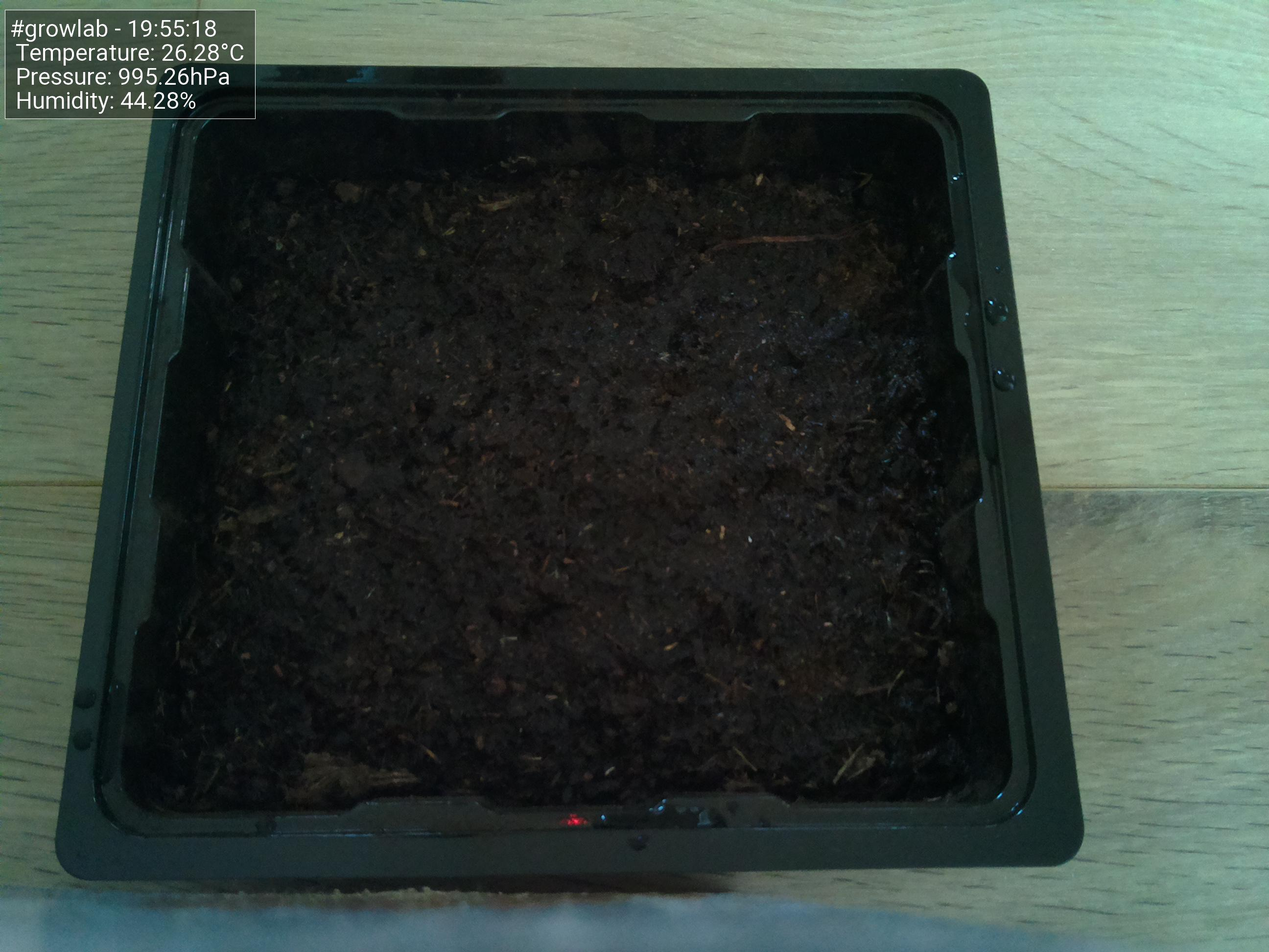
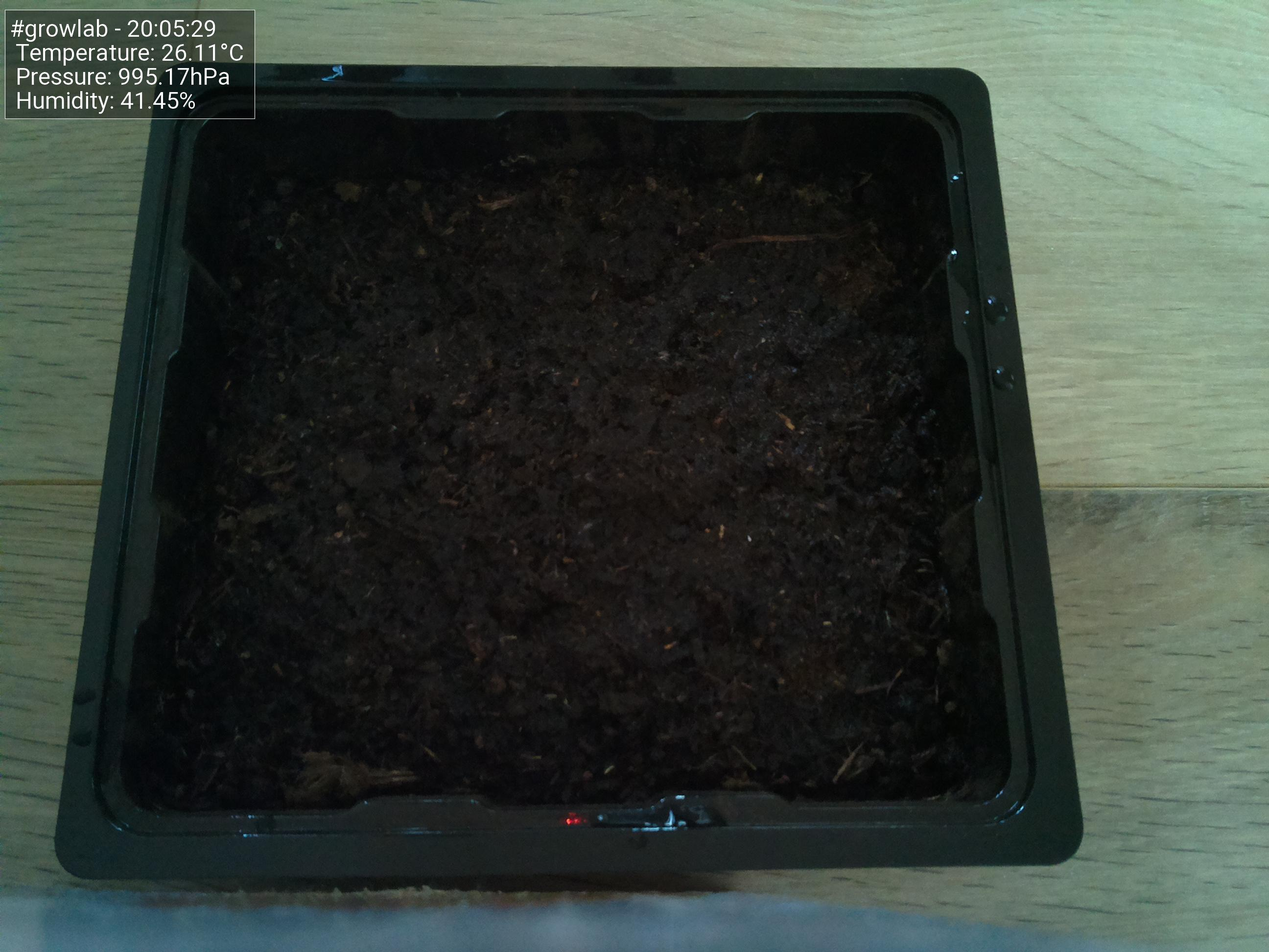
Update images at Mon 31 May 20:05:33 CEST 2021

diff --git a/docs/index.html b/docs/index.html
@@ -47,19 +47,19 @@
                         <tbody>
                             <tr>
                                 <td>Time</td>
-                                <td>19:55:18</td>
+                                <td>20:05:29</td>
                             </tr>
                             <tr>
                                 <td>Temperature</td>
-                                <td>26.28°C</td>
+                                <td>26.11°C</td>
                             </tr>
                             <tr>
                                 <td>Humidity</td>
-                                <td>44.28%</td>
+                                <td>41.45%</td>
                             </tr>
                             <tr>
                                 <td>Pressure</td>
-                                <td>995.26hPa</td>
+                                <td>995.17hPa</td>
                             </tr>
                         </tbody>
                     </table>
@@ -67,7 +67,7 @@
 
                 <h5>Latest image</h5>
                 <div style="width: 85%;">
-                            <img class="figure-img img-fluid rounded" src="./preview.jpg?uid=1622483722.7023087">
+                            <img class="figure-img img-fluid rounded" src="./preview.jpg?uid=1622484333.355319">
                 </div>
             </div>
         </div>
